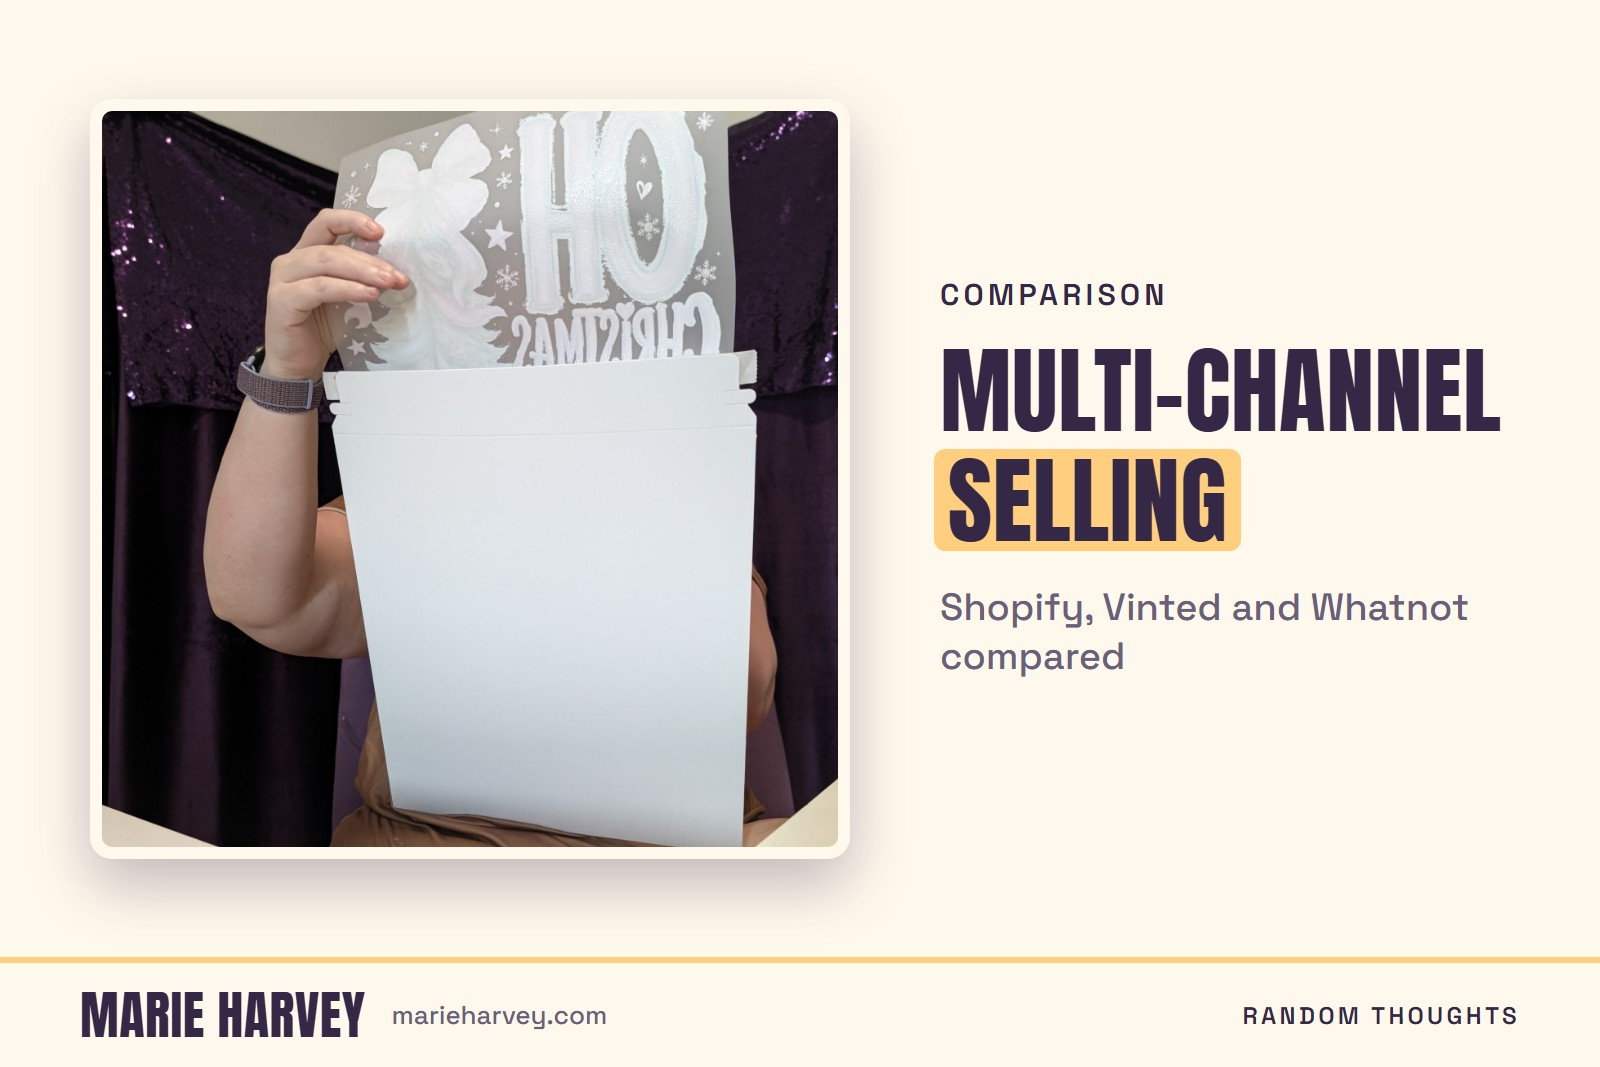
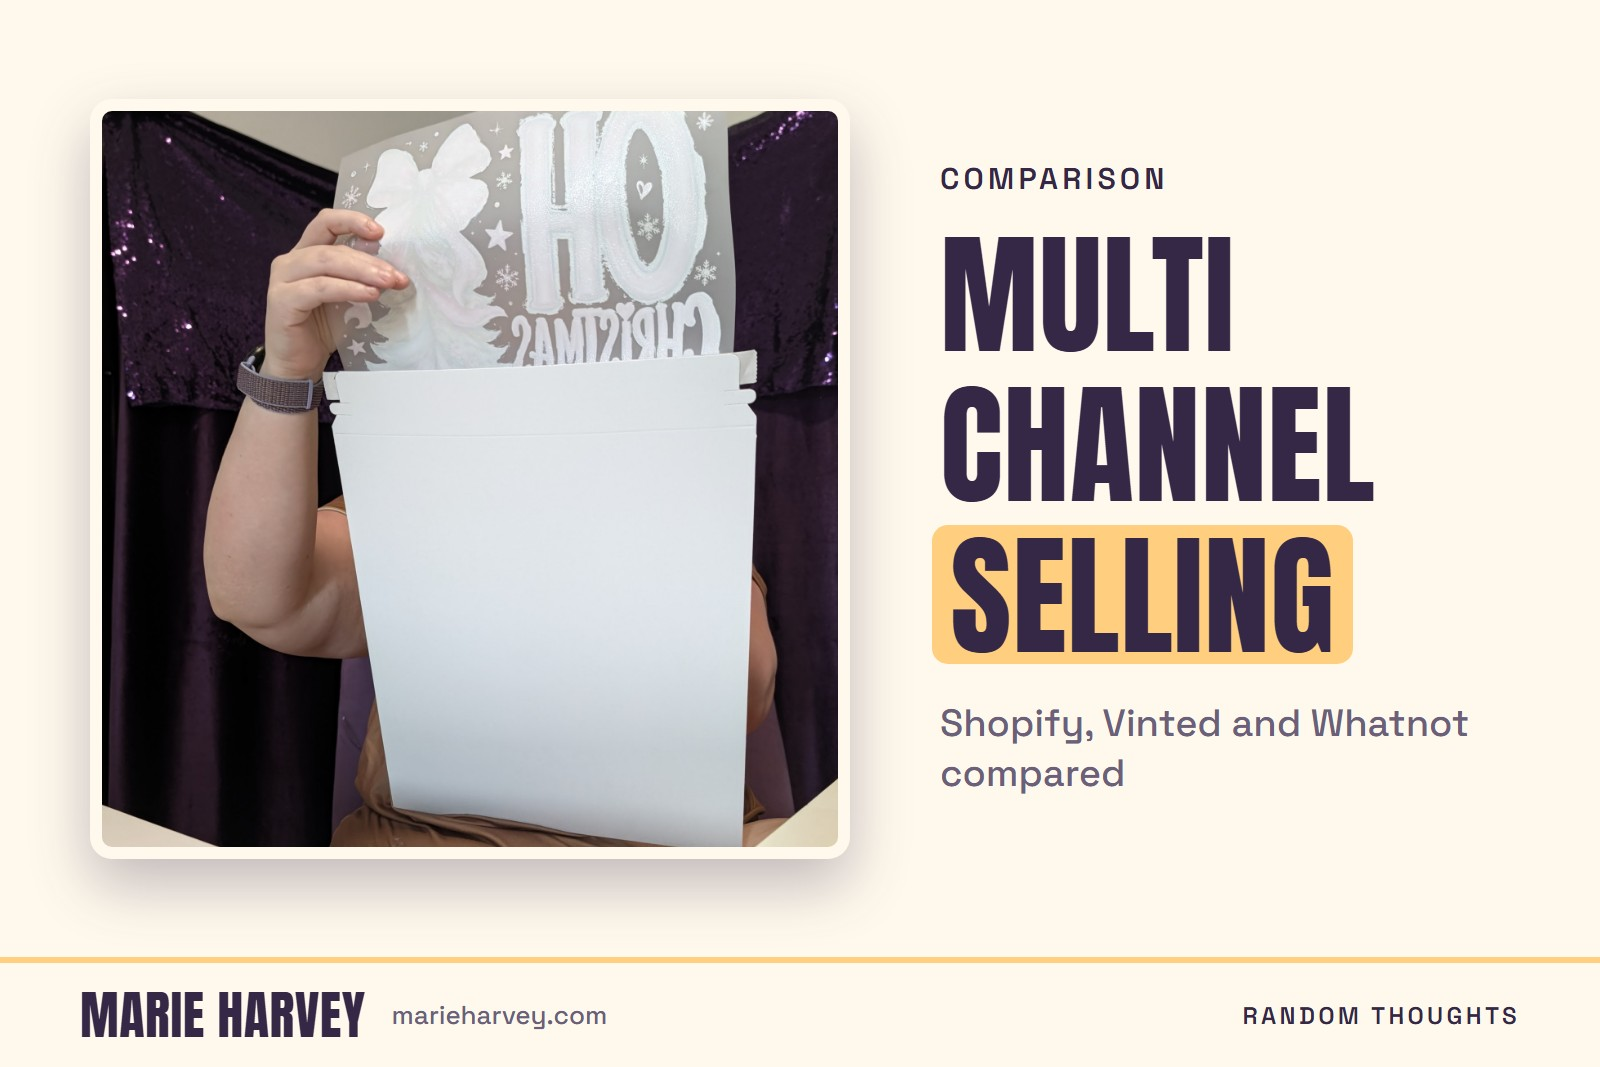
Random Thoughts: featured images on the post list and existing posts

Changed region(s): [[0.5625, 0.2165, 0.9375, 0.7423], [0.5938, 0.1546, 0.75, 0.1856]]

diff --git a/random-thoughts.html b/random-thoughts.html
@@ -73,88 +73,124 @@ height="0" width="0" style="display:none;visibility:hidden"></iframe></noscript>
   </div>
 
   <!-- POST-CARDS:START (auto-generated by marie-harvey/blog/render-post.mjs from published-posts.json — do not hand-edit between these markers) -->
-  <div class="post-card2" data-reveal>
-    <span class="k">September 19, 2026</span>
-    <h3>Exactly What I Let AI Handle in My Businesses Today</h3>
-    <p>AI drafts almost everything I publish. It never spends my money, publishes a live storefront change, or finishes a video. Here's the real line I hold today.</p>
-    <a href="what-i-actually-let-ai-handle-in-my-businesses.html" class="more">Read more →</a>
+  <div class="post-card2" data-reveal style="display:flex;flex-wrap:wrap;align-items:center;gap:22px 30px">
+    <a href="what-i-actually-let-ai-handle-in-my-businesses.html" tabindex="-1" aria-hidden="true" style="display:block;flex:1 1 260px;max-width:400px"><img src="assets/blog/what-i-actually-let-ai-handle-in-my-businesses-featured.jpg" alt="" loading="lazy" width="1600" height="1067" style="display:block;width:100%;height:auto;border-radius:10px"></a>
+    <div style="flex:2 1 300px;min-width:0">
+      <span class="k">September 19, 2026</span>
+      <h3>Exactly What I Let AI Handle in My Businesses Today</h3>
+      <p>AI drafts almost everything I publish. It never spends my money, publishes a live storefront change, or finishes a video. Here's the real line I hold today.</p>
+      <a href="what-i-actually-let-ai-handle-in-my-businesses.html" class="more">Read more →</a>
+    </div>
   </div>
 
-  <div class="post-card2" data-reveal>
-    <span class="k">September 18, 2026</span>
-    <h3>Using AI vs. Building an AI Workflow: The Real Difference</h3>
-    <p>Using AI is asking a chatbot for one thing. Building a workflow means deciding ahead of time who checks what. Here's the real day that taught me the difference.</p>
-    <a href="the-difference-between-using-ai-and-building-an-ai-workflow.html" class="more">Read more →</a>
+  <div class="post-card2" data-reveal style="display:flex;flex-wrap:wrap;align-items:center;gap:22px 30px">
+    <a href="the-difference-between-using-ai-and-building-an-ai-workflow.html" tabindex="-1" aria-hidden="true" style="display:block;flex:1 1 260px;max-width:400px"><img src="assets/blog/the-difference-between-using-ai-and-building-an-ai-workflow-featured.jpg" alt="" loading="lazy" width="1600" height="1067" style="display:block;width:100%;height:auto;border-radius:10px"></a>
+    <div style="flex:2 1 300px;min-width:0">
+      <span class="k">September 18, 2026</span>
+      <h3>Using AI vs. Building an AI Workflow: The Real Difference</h3>
+      <p>Using AI is asking a chatbot for one thing. Building a workflow means deciding ahead of time who checks what. Here's the real day that taught me the difference.</p>
+      <a href="the-difference-between-using-ai-and-building-an-ai-workflow.html" class="more">Read more →</a>
+    </div>
   </div>
 
-  <div class="post-card2" data-reveal>
-    <span class="k">September 17, 2026</span>
-    <h3>How I'm Actually Using AI Agents Across My Businesses</h3>
-    <p>A real look at how I use AI agents across Marie Gems, Lavender Pin Co, and this site: Pinterest pins, blog posts, social captions, and two that only watch.</p>
-    <a href="how-im-using-ai-agents-across-multiple-businesses.html" class="more">Read more →</a>
+  <div class="post-card2" data-reveal style="display:flex;flex-wrap:wrap;align-items:center;gap:22px 30px">
+    <a href="how-im-using-ai-agents-across-multiple-businesses.html" tabindex="-1" aria-hidden="true" style="display:block;flex:1 1 260px;max-width:400px"><img src="assets/blog/how-im-using-ai-agents-across-multiple-businesses-featured.jpg" alt="" loading="lazy" width="1600" height="1067" style="display:block;width:100%;height:auto;border-radius:10px"></a>
+    <div style="flex:2 1 300px;min-width:0">
+      <span class="k">September 17, 2026</span>
+      <h3>How I'm Actually Using AI Agents Across My Businesses</h3>
+      <p>A real look at how I use AI agents across Marie Gems, Lavender Pin Co, and this site: Pinterest pins, blog posts, social captions, and two that only watch.</p>
+      <a href="how-im-using-ai-agents-across-multiple-businesses.html" class="more">Read more →</a>
+    </div>
   </div>
 
-  <div class="post-card2" data-reveal>
-    <span class="k">September 2, 2026</span>
-    <h3>From Paparazzi to Marie Gems: How Getting Let Go Became the Turning Point</h3>
-    <p>The real story behind Marie Gems — how getting removed from Paparazzi jewelry became the push to build something of my own.</p>
-    <a href="how-marie-gems-started.html" class="more">Read more →</a>
+  <div class="post-card2" data-reveal style="display:flex;flex-wrap:wrap;align-items:center;gap:22px 30px">
+    <a href="how-marie-gems-started.html" tabindex="-1" aria-hidden="true" style="display:block;flex:1 1 260px;max-width:400px"><img src="assets/blog/how-marie-gems-started-featured.jpg" alt="" loading="lazy" width="1600" height="1067" style="display:block;width:100%;height:auto;border-radius:10px"></a>
+    <div style="flex:2 1 300px;min-width:0">
+      <span class="k">September 2, 2026</span>
+      <h3>From Paparazzi to Marie Gems: How Getting Let Go Became the Turning Point</h3>
+      <p>The real story behind Marie Gems — how getting removed from Paparazzi jewelry became the push to build something of my own.</p>
+      <a href="how-marie-gems-started.html" class="more">Read more →</a>
+    </div>
   </div>
 
-  <div class="post-card2" data-reveal>
-    <span class="k">September 2, 2026</span>
-    <h3>Running Two Businesses and Raising 7 Kids: How the Days Actually Work</h3>
-    <p>How I actually run two businesses — Marie Gems and Lavender Pin Co — while raising seven kids in Wichita, Kansas.</p>
-    <a href="running-a-business-and-raising-seven-kids.html" class="more">Read more →</a>
+  <div class="post-card2" data-reveal style="display:flex;flex-wrap:wrap;align-items:center;gap:22px 30px">
+    <a href="running-a-business-and-raising-seven-kids.html" tabindex="-1" aria-hidden="true" style="display:block;flex:1 1 260px;max-width:400px"><img src="assets/blog/running-a-business-and-raising-seven-kids-featured.jpg" alt="" loading="lazy" width="1600" height="1067" style="display:block;width:100%;height:auto;border-radius:10px"></a>
+    <div style="flex:2 1 300px;min-width:0">
+      <span class="k">September 2, 2026</span>
+      <h3>Running Two Businesses and Raising 7 Kids: How the Days Actually Work</h3>
+      <p>How I actually run two businesses — Marie Gems and Lavender Pin Co — while raising seven kids in Wichita, Kansas.</p>
+      <a href="running-a-business-and-raising-seven-kids.html" class="more">Read more →</a>
+    </div>
   </div>
 
-  <div class="post-card2" data-reveal>
-    <span class="k">September 2, 2026</span>
-    <h3>From Bullet Journals to DTF: How Marie Gems Actually Changed</h3>
-    <p>How Marie Gems evolved from bullet journals to ready-to-press DTF transfers — three years of trial, error, and real growth.</p>
-    <a href="marie-gems-origin-story.html" class="more">Read more →</a>
+  <div class="post-card2" data-reveal style="display:flex;flex-wrap:wrap;align-items:center;gap:22px 30px">
+    <a href="marie-gems-origin-story.html" tabindex="-1" aria-hidden="true" style="display:block;flex:1 1 260px;max-width:400px"><img src="assets/blog/marie-gems-origin-story-featured.jpg" alt="" loading="lazy" width="1600" height="1067" style="display:block;width:100%;height:auto;border-radius:10px"></a>
+    <div style="flex:2 1 300px;min-width:0">
+      <span class="k">September 2, 2026</span>
+      <h3>From Bullet Journals to DTF: How Marie Gems Actually Changed</h3>
+      <p>How Marie Gems evolved from bullet journals to ready-to-press DTF transfers — three years of trial, error, and real growth.</p>
+      <a href="marie-gems-origin-story.html" class="more">Read more →</a>
+    </div>
   </div>
 
-  <div class="post-card2" data-reveal>
-    <span class="k">September 2, 2026</span>
-    <h3>Why I Started Lavender Pin Co After Building Marie Gems</h3>
-    <p>How a hard lesson from building Marie Gems — that a website and its traffic are two different problems — led to Lavender Pin Co.</p>
-    <a href="why-i-started-lavender-pin-co.html" class="more">Read more →</a>
+  <div class="post-card2" data-reveal style="display:flex;flex-wrap:wrap;align-items:center;gap:22px 30px">
+    <a href="why-i-started-lavender-pin-co.html" tabindex="-1" aria-hidden="true" style="display:block;flex:1 1 260px;max-width:400px"><img src="assets/blog/why-i-started-lavender-pin-co-featured.jpg" alt="" loading="lazy" width="1600" height="1067" style="display:block;width:100%;height:auto;border-radius:10px"></a>
+    <div style="flex:2 1 300px;min-width:0">
+      <span class="k">September 2, 2026</span>
+      <h3>Why I Started Lavender Pin Co After Building Marie Gems</h3>
+      <p>How a hard lesson from building Marie Gems — that a website and its traffic are two different problems — led to Lavender Pin Co.</p>
+      <a href="why-i-started-lavender-pin-co.html" class="more">Read more →</a>
+    </div>
   </div>
 
-  <div class="post-card2" data-reveal>
-    <span class="k">September 2, 2026</span>
-    <h3>Multi-Channel Selling: Shopify, Vinted, and Whatnot Compared</h3>
-    <p>What it's actually like running a product business across Shopify, Vinted, and Whatnot at the same time.</p>
-    <a href="shopify-vs-vinted-vs-whatnot.html" class="more">Read more →</a>
+  <div class="post-card2" data-reveal style="display:flex;flex-wrap:wrap;align-items:center;gap:22px 30px">
+    <a href="shopify-vs-vinted-vs-whatnot.html" tabindex="-1" aria-hidden="true" style="display:block;flex:1 1 260px;max-width:400px"><img src="assets/blog/shopify-vs-vinted-vs-whatnot-featured.jpg" alt="" loading="lazy" width="1600" height="1067" style="display:block;width:100%;height:auto;border-radius:10px"></a>
+    <div style="flex:2 1 300px;min-width:0">
+      <span class="k">September 2, 2026</span>
+      <h3>Multi-Channel Selling: Shopify, Vinted, and Whatnot Compared</h3>
+      <p>What it's actually like running a product business across Shopify, Vinted, and Whatnot at the same time.</p>
+      <a href="shopify-vs-vinted-vs-whatnot.html" class="more">Read more →</a>
+    </div>
   </div>
 
-  <div class="post-card2" data-reveal>
-    <span class="k">September 2, 2026</span>
-    <h3>Ready-to-Press DTF Transfers: How They're Actually Made</h3>
-    <p>A behind-the-scenes look at how ready-to-press DTF transfers actually get made, from design to finished product.</p>
-    <a href="how-dtf-transfers-are-made.html" class="more">Read more →</a>
+  <div class="post-card2" data-reveal style="display:flex;flex-wrap:wrap;align-items:center;gap:22px 30px">
+    <a href="how-dtf-transfers-are-made.html" tabindex="-1" aria-hidden="true" style="display:block;flex:1 1 260px;max-width:400px"><img src="assets/blog/how-dtf-transfers-are-made-featured.jpg" alt="" loading="lazy" width="1600" height="1067" style="display:block;width:100%;height:auto;border-radius:10px"></a>
+    <div style="flex:2 1 300px;min-width:0">
+      <span class="k">September 2, 2026</span>
+      <h3>Ready-to-Press DTF Transfers: How They're Actually Made</h3>
+      <p>A behind-the-scenes look at how ready-to-press DTF transfers actually get made, from design to finished product.</p>
+      <a href="how-dtf-transfers-are-made.html" class="more">Read more →</a>
+    </div>
   </div>
 
-  <div class="post-card2" data-reveal>
-    <span class="k">September 2, 2026</span>
-    <h3>DTF vs. Sublimation vs. HTV: Which Should You Use?</h3>
-    <p>A real comparison of DTF, sublimation, and HTV printing methods — what each one is actually good for.</p>
-    <a href="dtf-vs-sublimation-vs-htv.html" class="more">Read more →</a>
+  <div class="post-card2" data-reveal style="display:flex;flex-wrap:wrap;align-items:center;gap:22px 30px">
+    <a href="dtf-vs-sublimation-vs-htv.html" tabindex="-1" aria-hidden="true" style="display:block;flex:1 1 260px;max-width:400px"><img src="assets/blog/dtf-vs-sublimation-vs-htv-featured.jpg" alt="" loading="lazy" width="1600" height="1067" style="display:block;width:100%;height:auto;border-radius:10px"></a>
+    <div style="flex:2 1 300px;min-width:0">
+      <span class="k">September 2, 2026</span>
+      <h3>DTF vs. Sublimation vs. HTV: Which Should You Use?</h3>
+      <p>A real comparison of DTF, sublimation, and HTV printing methods — what each one is actually good for.</p>
+      <a href="dtf-vs-sublimation-vs-htv.html" class="more">Read more →</a>
+    </div>
   </div>
 
-  <div class="post-card2" data-reveal>
-    <span class="k">September 2, 2026</span>
-    <h3>Code, Craft, Create: The Three Skills Behind Everything I Build</h3>
-    <p>The three skills — code, craft, and create — behind everything built at Marie Gems and Lavender Pin Co.</p>
-    <a href="code-craft-create.html" class="more">Read more →</a>
+  <div class="post-card2" data-reveal style="display:flex;flex-wrap:wrap;align-items:center;gap:22px 30px">
+    <a href="code-craft-create.html" tabindex="-1" aria-hidden="true" style="display:block;flex:1 1 260px;max-width:400px"><img src="assets/blog/code-craft-create-featured.jpg" alt="" loading="lazy" width="1600" height="1067" style="display:block;width:100%;height:auto;border-radius:10px"></a>
+    <div style="flex:2 1 300px;min-width:0">
+      <span class="k">September 2, 2026</span>
+      <h3>Code, Craft, Create: The Three Skills Behind Everything I Build</h3>
+      <p>The three skills — code, craft, and create — behind everything built at Marie Gems and Lavender Pin Co.</p>
+      <a href="code-craft-create.html" class="more">Read more →</a>
+    </div>
   </div>
 
-  <div class="post-card2" data-reveal>
-    <span class="k">September 2, 2026</span>
-    <h3>What My Web Design Degree Actually Taught Me About Running a Business</h3>
-    <p>What a web design education actually taught me about running a business — and why it led to a second brand.</p>
-    <a href="web-design-degree-lessons-for-entrepreneurs.html" class="more">Read more →</a>
+  <div class="post-card2" data-reveal style="display:flex;flex-wrap:wrap;align-items:center;gap:22px 30px">
+    <a href="web-design-degree-lessons-for-entrepreneurs.html" tabindex="-1" aria-hidden="true" style="display:block;flex:1 1 260px;max-width:400px"><img src="assets/blog/web-design-degree-lessons-for-entrepreneurs-featured.jpg" alt="" loading="lazy" width="1600" height="1067" style="display:block;width:100%;height:auto;border-radius:10px"></a>
+    <div style="flex:2 1 300px;min-width:0">
+      <span class="k">September 2, 2026</span>
+      <h3>What My Web Design Degree Actually Taught Me About Running a Business</h3>
+      <p>What a web design education actually taught me about running a business — and why it led to a second brand.</p>
+      <a href="web-design-degree-lessons-for-entrepreneurs.html" class="more">Read more →</a>
+    </div>
   </div>
   <!-- POST-CARDS:END -->
 </div></section>
